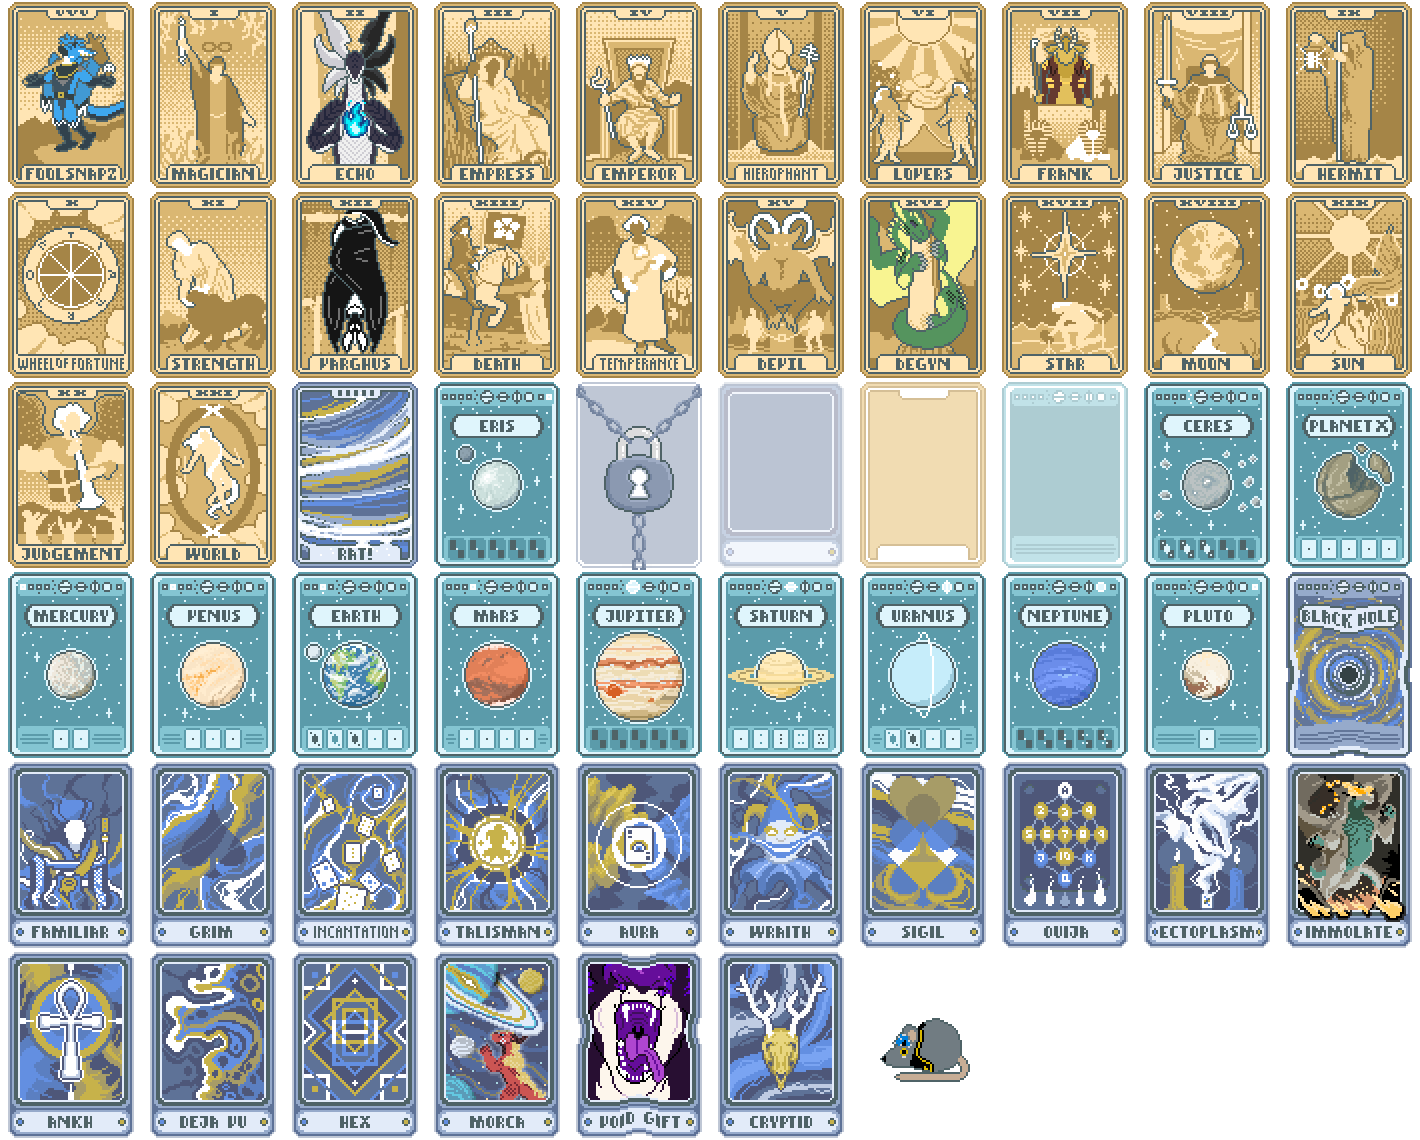
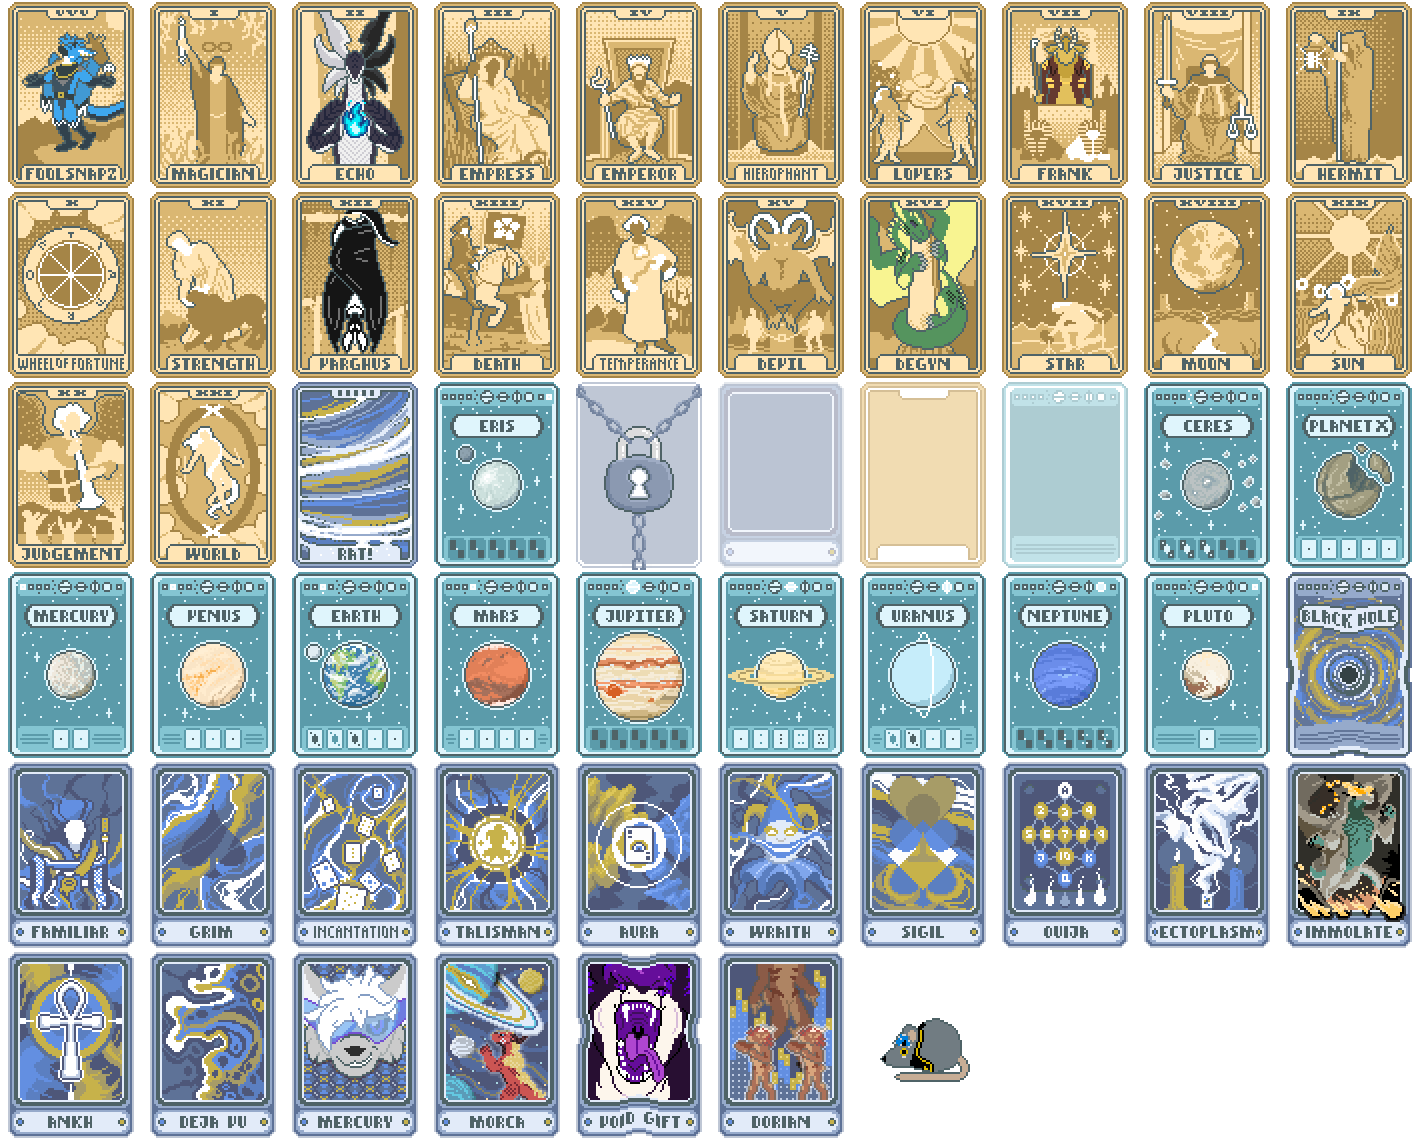
Add Hex

Changed region(s): [[0.4958, 0.8289, 0.5887, 1.0], [0.2169, 0.8289, 0.3099, 1.0]]

diff --git a/ReadMe.md b/ReadMe.md
@@ -75,6 +75,8 @@ Version 0.0.5a
 - Medium (and the Purple Seal)
 - Soul
 - Trance (and Blue Seal)
+- Hex
+- Cryptid
 
 ## Tarots:
 - The Fool
